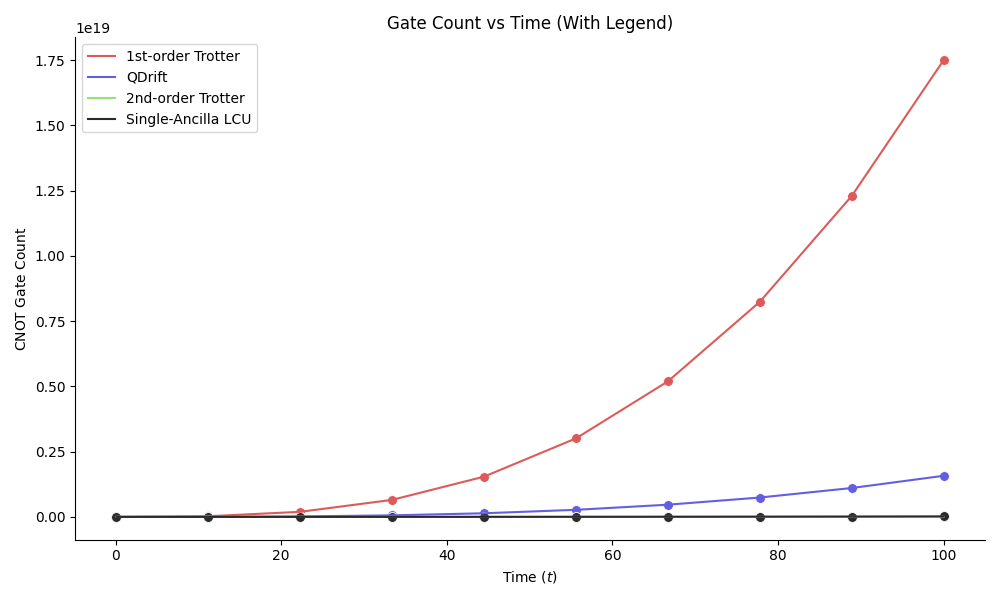
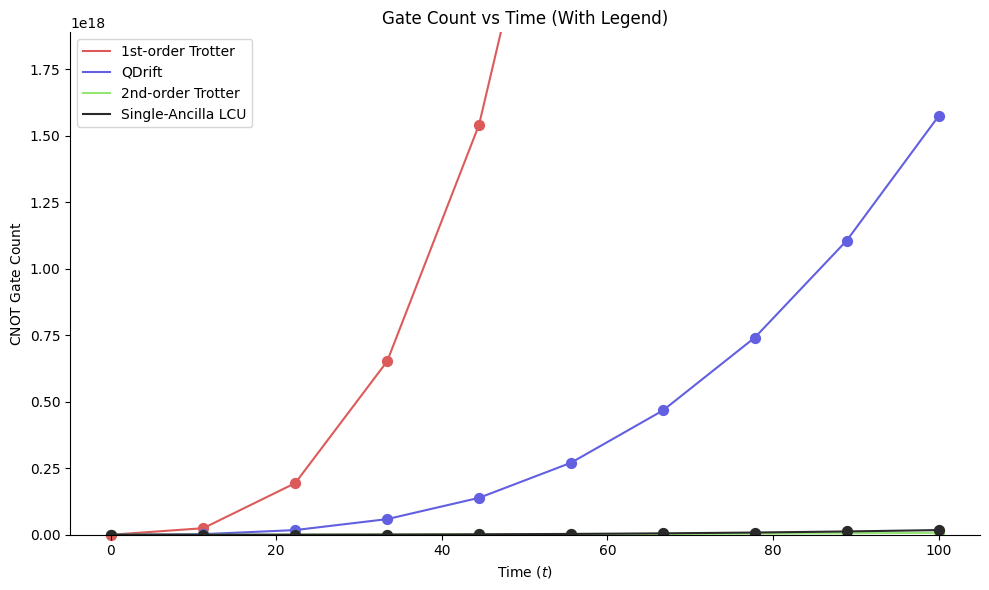
Added choppy plot

diff --git a/ising/newbenchmark/nonmarkovian_analytical_cx_vs_error.py b/ising/newbenchmark/nonmarkovian_analytical_cx_vs_error.py
@@ -29,7 +29,7 @@ parameters = {
     "epsilon": 1e-1,            # Fixed error value
     "alpha_commutator_1st": 1.1114244518026801,  # Alpha commutator for 1st-order Trotter
     "alpha_commutator_2nd": 2.3818703023137573,  # Alpha commutator for 2nd-order Trotter
-    "time_values": np.linspace(0.1, 100, 10).tolist()  # Time values
+    "time_values": np.linspace(0.1, 1000, 10).tolist()  # Time values
 }
 
 COLORS = ["#DC5B5A", "#625FE1", "#94E574", "#2A2A2A", "#D575EF", 
@@ -90,7 +90,7 @@ def generate_plots():
     single_ancilla_counts = [single_ancilla_lcu(t) for t in time_values]
 
     # Find the maximum value of the lower algorithms to set the y-axis limit
-    lower_algos_max = max(max(qdrift_counts), max(trotter_2nd_counts), max(single_ancilla_counts))
+    lower_algos_max = max(max(trotter_2nd_counts), max(single_ancilla_counts))
     
     # Add padding to the y-axis upper limit
     y_limit = lower_algos_max * 1.2
@@ -102,8 +102,8 @@ def generate_plots():
         
         # Plot 1st-order Trotter with clip_on=False to allow it to extend beyond the plot bounds
         ax.plot(time_values, trotter_counts, '-', color=COLORS[0], 
-                label='1st-order Trotter', zorder=1, clip_on=False)
-        ax.scatter(time_values, trotter_counts, color=COLORS[0], s=50, zorder=1, clip_on=False)
+                label='1st-order Trotter')
+        ax.scatter(time_values, trotter_counts, color=COLORS[0], s=50)
         
         # Plot other algorithms with higher zorder to ensure they're visible
         ax.plot(time_values, qdrift_counts, '-', color=COLORS[1], 
@@ -118,22 +118,18 @@ def generate_plots():
                 label='Single-Ancilla LCU', zorder=2)
         ax.scatter(time_values, single_ancilla_counts, color=COLORS[3], s=50, zorder=2)
         
-        ax.plot(time_values, trotter_2k_counts, '-', color=COLORS[4], 
-                label='2k-order Trotter', zorder=2)
-        ax.scatter(time_values, trotter_2k_counts, color=COLORS[4], s=50, zorder=2)
-
         # Set the y-axis limit to focus on lower algorithms
         plt.ylim(0, y_limit)
         
         # Add annotation to indicate 1st-order Trotter continues off-scale
-        last_visible_index = next((i for i, y in enumerate(trotter_counts) if y > y_limit), len(trotter_counts)) - 1
-        if last_visible_index >= 0:
-            last_visible_x = time_values[last_visible_index]
-            plt.annotate("1st-order Trotter\ncontinues off-scale", 
-                        xy=(last_visible_x, y_limit * 0.95), 
-                        xytext=(last_visible_x + 1, y_limit * 0.7),
-                        arrowprops=dict(facecolor='black', shrink=0.05, width=1.5, headwidth=8),
-                        fontsize=9)
+        # last_visible_index = next((i for i, y in enumerate(trotter_counts) if y > y_limit), len(trotter_counts)) - 1
+        # if last_visible_index >= 0:
+        #     last_visible_x = time_values[last_visible_index]
+        #     plt.annotate("1st-order Trotter\ncontinues off-scale", 
+        #                 xy=(last_visible_x, y_limit * 0.95), 
+        #                 xytext=(last_visible_x + 1, y_limit * 0.7),
+        #                 arrowprops=dict(facecolor='black', shrink=0.05, width=1.5, headwidth=8),
+        #                 fontsize=9)
         
         ax.spines["top"].set_visible(False)
         ax.spines["right"].set_visible(False)
